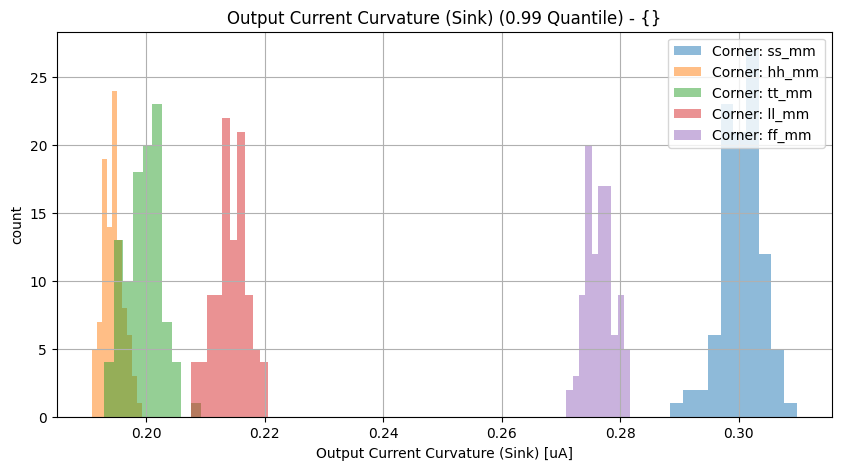
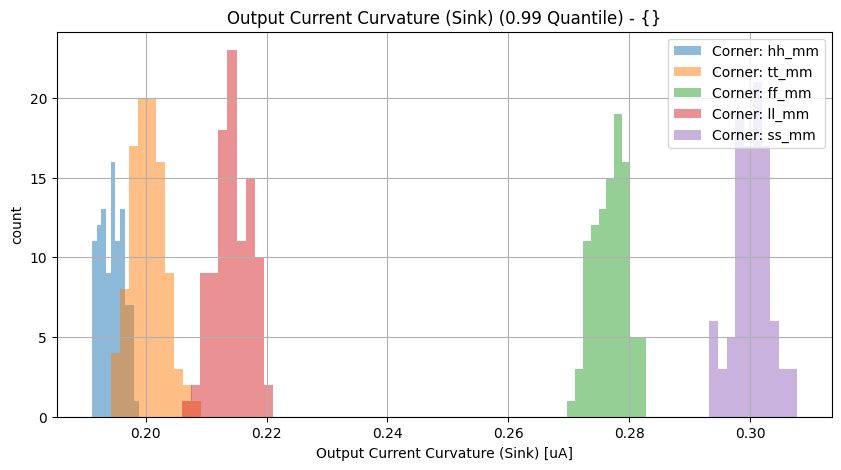
Jenkins update

diff --git a/vthref/vthref/Readme.md b/vthref/vthref/Readme.md
@@ -1,4 +1,4 @@
-06.08.2022, 15:44:52
+17.09.2022, 20:08:27
 
 # Vth Current Reference
 
@@ -30,8 +30,8 @@ LVS-state: Netlists match uniquely.<br>
 
 | Parameter | Min (Spec. / Sim.) |      | Max (Sim. / Spec.) | Unit | Checks (total/pass/fail/NaN) | Comment |
 | :-------- | -----------------: | :--: | :----------------- | :--- | :--------------------------- | ------- |
-| Output Current Curvature (Sink) | 0.0 / 0.191 | <svg height="20" width="150"><polyline points="3.0,3,3.0,17,147.0,17,147.0,3" style="fill:none;stroke:gray;stroke-width:1" /><polyline points="75.0,10.0,75.0,17" style="fill:none;stroke:gray;stroke-width:1" /><polyline points="30.4841136,10.0,47.612870400000006,10.0" style="stroke:green;stroke-width:2" /><circle cx="30.4841136" cy="10.0" r="3" style="fill:green;stroke:green;stroke-width:0" /><circle cx="47.612870400000006" cy="10.0" r="3" style="fill:green;stroke:green;stroke-width:0" /></svg> | 0.31 / 1.0 | uA | 500/100.0%/0.0%/0.0% |  |
-| Output Current Curvature (Source) | 0.0 / 0.193 | <svg height="20" width="150"><polyline points="3.0,3,3.0,17,147.0,17,147.0,3" style="fill:none;stroke:gray;stroke-width:1" /><polyline points="75.0,10.0,75.0,17" style="fill:none;stroke:gray;stroke-width:1" /><polyline points="30.7878096,10.0,47.211528,10.0" style="stroke:green;stroke-width:2" /><circle cx="30.7878096" cy="10.0" r="3" style="fill:green;stroke:green;stroke-width:0" /><circle cx="47.211528" cy="10.0" r="3" style="fill:green;stroke:green;stroke-width:0" /></svg> | 0.307 / 1.0 | uA | 500/100.0%/0.0%/0.0% |  |
+| Output Current Curvature (Sink) | 0.0 / 0.191 | <svg height="20" width="150"><polyline points="3.0,3,3.0,17,147.0,17,147.0,3" style="fill:none;stroke:gray;stroke-width:1" /><polyline points="75.0,10.0,75.0,17" style="fill:none;stroke:gray;stroke-width:1" /><polyline points="30.5239152,10.0,47.3101824,10.0" style="stroke:green;stroke-width:2" /><circle cx="30.5239152" cy="10.0" r="3" style="fill:green;stroke:green;stroke-width:0" /><circle cx="47.3101824" cy="10.0" r="3" style="fill:green;stroke:green;stroke-width:0" /></svg> | 0.308 / 1.0 | uA | 500/100.0%/0.0%/0.0% |  |
+| Output Current Curvature (Source) | 0.0 / 0.194 | <svg height="20" width="150"><polyline points="3.0,3,3.0,17,147.0,17,147.0,3" style="fill:none;stroke:gray;stroke-width:1" /><polyline points="75.0,10.0,75.0,17" style="fill:none;stroke:gray;stroke-width:1" /><polyline points="30.8981712,10.0,47.3664432,10.0" style="stroke:green;stroke-width:2" /><circle cx="30.8981712" cy="10.0" r="3" style="fill:green;stroke:green;stroke-width:0" /><circle cx="47.3664432" cy="10.0" r="3" style="fill:green;stroke:green;stroke-width:0" /></svg> | 0.308 / 1.0 | uA | 500/100.0%/0.0%/0.0% |  |
 
 <br>
 
@@ -48,8 +48,8 @@ LVS-state: Netlists match uniquely.<br>
 
 | Parameter | Min (Spec. / Sim.) |      | Max (Sim. / Spec.) | Unit | Checks (total/pass/fail/NaN) | Comment |
 | :-------- | -----------------: | :--: | :----------------- | :--- | :--------------------------- | ------- |
-| Output Current Curvature (Sink) | 0.0 / 0.193 | <svg height="20" width="150"><polyline points="3.0,3,3.0,17,147.0,17,147.0,3" style="fill:none;stroke:gray;stroke-width:1" /><polyline points="75.0,10.0,75.0,17" style="fill:none;stroke:gray;stroke-width:1" /><polyline points="30.7816608,10.0,45.9992496,10.0" style="stroke:green;stroke-width:2" /><circle cx="30.7816608" cy="10.0" r="3" style="fill:green;stroke:green;stroke-width:0" /><circle cx="45.9992496" cy="10.0" r="3" style="fill:green;stroke:green;stroke-width:0" /></svg> | 0.299 / 1.0 | uA | 500/100.0%/0.0%/0.0% |  |
-| Output Current Curvature (Source) | 0.0 / 0.196 | <svg height="20" width="150"><polyline points="3.0,3,3.0,17,147.0,17,147.0,3" style="fill:none;stroke:gray;stroke-width:1" /><polyline points="75.0,10.0,75.0,17" style="fill:none;stroke:gray;stroke-width:1" /><polyline points="31.216036799999998,10.0,48.5911776,10.0" style="stroke:green;stroke-width:2" /><circle cx="31.216036799999998" cy="10.0" r="3" style="fill:green;stroke:green;stroke-width:0" /><circle cx="48.5911776" cy="10.0" r="3" style="fill:green;stroke:green;stroke-width:0" /></svg> | 0.317 / 1.0 | uA | 500/100.0%/0.0%/0.0% |  |
+| Output Current Curvature (Sink) | 0.0 / 0.193 | <svg height="20" width="150"><polyline points="3.0,3,3.0,17,147.0,17,147.0,3" style="fill:none;stroke:gray;stroke-width:1" /><polyline points="75.0,10.0,75.0,17" style="fill:none;stroke:gray;stroke-width:1" /><polyline points="30.819777600000002,10.0,45.772464,10.0" style="stroke:green;stroke-width:2" /><circle cx="30.819777600000002" cy="10.0" r="3" style="fill:green;stroke:green;stroke-width:0" /><circle cx="45.772464" cy="10.0" r="3" style="fill:green;stroke:green;stroke-width:0" /></svg> | 0.297 / 1.0 | uA | 500/100.0%/0.0%/0.0% |  |
+| Output Current Curvature (Source) | 0.0 / 0.196 | <svg height="20" width="150"><polyline points="3.0,3,3.0,17,147.0,17,147.0,3" style="fill:none;stroke:gray;stroke-width:1" /><polyline points="75.0,10.0,75.0,17" style="fill:none;stroke:gray;stroke-width:1" /><polyline points="31.170936,10.0,47.9622432,10.0" style="stroke:green;stroke-width:2" /><circle cx="31.170936" cy="10.0" r="3" style="fill:green;stroke:green;stroke-width:0" /><circle cx="47.9622432" cy="10.0" r="3" style="fill:green;stroke:green;stroke-width:0" /></svg> | 0.312 / 1.0 | uA | 500/100.0%/0.0%/0.0% |  |
 
 <br>
 

diff --git a/vthref/vthref/specReport.md b/vthref/vthref/specReport.md
@@ -12,8 +12,8 @@
 
 | Parameter | Min (Spec. / Sim.) |      | Max (Sim. / Spec.) | Unit | Checks (total/pass/fail/NaN) | Comment |
 | :-------- | -----------------: | :--: | :----------------- | :--- | :--------------------------- | ------- |
-| Output Current Curvature (Sink) | 0.0 / 0.191 | <svg height="20" width="150"><polyline points="3.0,3,3.0,17,147.0,17,147.0,3" style="fill:none;stroke:gray;stroke-width:1" /><polyline points="75.0,10.0,75.0,17" style="fill:none;stroke:gray;stroke-width:1" /><polyline points="30.4841136,10.0,47.612870400000006,10.0" style="stroke:green;stroke-width:2" /><circle cx="30.4841136" cy="10.0" r="3" style="fill:green;stroke:green;stroke-width:0" /><circle cx="47.612870400000006" cy="10.0" r="3" style="fill:green;stroke:green;stroke-width:0" /></svg> | 0.31 / 1.0 | uA | 500/100.0%/0.0%/0.0% |  |
-| Output Current Curvature (Source) | 0.0 / 0.193 | <svg height="20" width="150"><polyline points="3.0,3,3.0,17,147.0,17,147.0,3" style="fill:none;stroke:gray;stroke-width:1" /><polyline points="75.0,10.0,75.0,17" style="fill:none;stroke:gray;stroke-width:1" /><polyline points="30.7878096,10.0,47.211528,10.0" style="stroke:green;stroke-width:2" /><circle cx="30.7878096" cy="10.0" r="3" style="fill:green;stroke:green;stroke-width:0" /><circle cx="47.211528" cy="10.0" r="3" style="fill:green;stroke:green;stroke-width:0" /></svg> | 0.307 / 1.0 | uA | 500/100.0%/0.0%/0.0% |  |
+| Output Current Curvature (Sink) | 0.0 / 0.191 | <svg height="20" width="150"><polyline points="3.0,3,3.0,17,147.0,17,147.0,3" style="fill:none;stroke:gray;stroke-width:1" /><polyline points="75.0,10.0,75.0,17" style="fill:none;stroke:gray;stroke-width:1" /><polyline points="30.5239152,10.0,47.3101824,10.0" style="stroke:green;stroke-width:2" /><circle cx="30.5239152" cy="10.0" r="3" style="fill:green;stroke:green;stroke-width:0" /><circle cx="47.3101824" cy="10.0" r="3" style="fill:green;stroke:green;stroke-width:0" /></svg> | 0.308 / 1.0 | uA | 500/100.0%/0.0%/0.0% |  |
+| Output Current Curvature (Source) | 0.0 / 0.194 | <svg height="20" width="150"><polyline points="3.0,3,3.0,17,147.0,17,147.0,3" style="fill:none;stroke:gray;stroke-width:1" /><polyline points="75.0,10.0,75.0,17" style="fill:none;stroke:gray;stroke-width:1" /><polyline points="30.8981712,10.0,47.3664432,10.0" style="stroke:green;stroke-width:2" /><circle cx="30.8981712" cy="10.0" r="3" style="fill:green;stroke:green;stroke-width:0" /><circle cx="47.3664432" cy="10.0" r="3" style="fill:green;stroke:green;stroke-width:0" /></svg> | 0.308 / 1.0 | uA | 500/100.0%/0.0%/0.0% |  |
 
 <br>
 
@@ -30,7 +30,7 @@
 
 | Parameter | Min (Spec. / Sim.) |      | Max (Sim. / Spec.) | Unit | Checks (total/pass/fail/NaN) | Comment |
 | :-------- | -----------------: | :--: | :----------------- | :--- | :--------------------------- | ------- |
-| Output Current Curvature (Sink) | 0.0 / 0.193 | <svg height="20" width="150"><polyline points="3.0,3,3.0,17,147.0,17,147.0,3" style="fill:none;stroke:gray;stroke-width:1" /><polyline points="75.0,10.0,75.0,17" style="fill:none;stroke:gray;stroke-width:1" /><polyline points="30.7816608,10.0,45.9992496,10.0" style="stroke:green;stroke-width:2" /><circle cx="30.7816608" cy="10.0" r="3" style="fill:green;stroke:green;stroke-width:0" /><circle cx="45.9992496" cy="10.0" r="3" style="fill:green;stroke:green;stroke-width:0" /></svg> | 0.299 / 1.0 | uA | 500/100.0%/0.0%/0.0% |  |
-| Output Current Curvature (Source) | 0.0 / 0.196 | <svg height="20" width="150"><polyline points="3.0,3,3.0,17,147.0,17,147.0,3" style="fill:none;stroke:gray;stroke-width:1" /><polyline points="75.0,10.0,75.0,17" style="fill:none;stroke:gray;stroke-width:1" /><polyline points="31.216036799999998,10.0,48.5911776,10.0" style="stroke:green;stroke-width:2" /><circle cx="31.216036799999998" cy="10.0" r="3" style="fill:green;stroke:green;stroke-width:0" /><circle cx="48.5911776" cy="10.0" r="3" style="fill:green;stroke:green;stroke-width:0" /></svg> | 0.317 / 1.0 | uA | 500/100.0%/0.0%/0.0% |  |
+| Output Current Curvature (Sink) | 0.0 / 0.193 | <svg height="20" width="150"><polyline points="3.0,3,3.0,17,147.0,17,147.0,3" style="fill:none;stroke:gray;stroke-width:1" /><polyline points="75.0,10.0,75.0,17" style="fill:none;stroke:gray;stroke-width:1" /><polyline points="30.819777600000002,10.0,45.772464,10.0" style="stroke:green;stroke-width:2" /><circle cx="30.819777600000002" cy="10.0" r="3" style="fill:green;stroke:green;stroke-width:0" /><circle cx="45.772464" cy="10.0" r="3" style="fill:green;stroke:green;stroke-width:0" /></svg> | 0.297 / 1.0 | uA | 500/100.0%/0.0%/0.0% |  |
+| Output Current Curvature (Source) | 0.0 / 0.196 | <svg height="20" width="150"><polyline points="3.0,3,3.0,17,147.0,17,147.0,3" style="fill:none;stroke:gray;stroke-width:1" /><polyline points="75.0,10.0,75.0,17" style="fill:none;stroke:gray;stroke-width:1" /><polyline points="31.170936,10.0,47.9622432,10.0" style="stroke:green;stroke-width:2" /><circle cx="31.170936" cy="10.0" r="3" style="fill:green;stroke:green;stroke-width:0" /><circle cx="47.9622432" cy="10.0" r="3" style="fill:green;stroke:green;stroke-width:0" /></svg> | 0.312 / 1.0 | uA | 500/100.0%/0.0%/0.0% |  |
 
 <br>

diff --git a/bmbg/bmbg/Readme.md b/bmbg/bmbg/Readme.md
@@ -1,4 +1,4 @@
-06.08.2022, 15:44:52
+17.09.2022, 20:08:27
 
 # Beta-Multiplier Bandgap
 
@@ -39,9 +39,8 @@ LVS-state: Netlists match uniquely.<br>
 | Reference Voltage Sensitivity at 20°C | -1200.0 / -1723.18 | <svg height="20" width="150"><polyline points="28.772590124453508,3,28.772590124453508,17,147.0,17,147.0,3" style="fill:none;stroke:gray;stroke-width:1" /><polyline points="87.88629506222676,10.0,87.88629506222676,17" style="fill:none;stroke:gray;stroke-width:1" /><polyline points="3.0,10.0,144.89299051033464,10.0" style="stroke:red;stroke-width:2" /><circle cx="3.0" cy="10.0" r="3" style="fill:red;stroke:red;stroke-width:0" /><circle cx="144.89299051033464" cy="10.0" r="3" style="fill:red;stroke:red;stroke-width:0" /></svg> | 1157.228 / 1200.0 | uV/°C | 2500/96.2%/3.8%/0.0% |  |
 | Max. Supply Current | -85.0 / -83.703 | <svg height="20" width="150"><polyline points="3.0,3,3.0,17,147.0,17,147.0,3" style="fill:none;stroke:gray;stroke-width:1" /><polyline points="75.0,10.0,75.0,17" style="fill:none;stroke:gray;stroke-width:1" /><polyline points="15.455040000000109,10.0,97.25087999999998,10.0" style="stroke:green;stroke-width:2" /><circle cx="15.455040000000109" cy="10.0" r="3" style="fill:green;stroke:green;stroke-width:0" /><circle cx="97.25087999999998" cy="10.0" r="3" style="fill:green;stroke:green;stroke-width:0" /></svg> | -75.182 / -70.0 | uA | 2403/100.0%/0.0%/0.0% |  |
 
-<details>
-  <summary>Show specification violation details</summary>
-  
+<br>
+
 > **FAIL:** Specification violation for parameter "Mean Reference Voltage":<br>
 > **FAIL:** group:hh_mm file:work/sim/bmbg/bmbg_tb.1_bmbg/batch_8/hh_mm/dc.csv Index:31 vsup:5.0 <br>
 > **FAIL:** group:ss_mm file:work/sim/bmbg/bmbg_tb.1_bmbg/batch_9/ss_mm/dc.csv Index:34 vsup:5.0 <br>
@@ -178,8 +177,6 @@ LVS-state: Netlists match uniquely.<br>
 > **FAIL:** group:ff_mm file:work/sim/bmbg/bmbg_tb.1_bmbg/batch_7/ff_mm/dc.csv Index:37 vsup:5.0 <br>
 > **FAIL:** group:hh_mm file:work/sim/bmbg/bmbg_tb.1_bmbg/batch_7/hh_mm/dc.csv Index:17 vsup:5.0 <br>
 > **FAIL:** group:hh_mm file:work/sim/bmbg/bmbg_tb.1_bmbg/batch_7/hh_mm/dc.csv Index:43 vsup:5.0 <br>
-</details>
-<br>
 
 ## Reference Voltage Curvature vs VDD <br>
 

diff --git a/bmbg/bmbgota/Readme.md b/bmbg/bmbgota/Readme.md
@@ -1,4 +1,4 @@
-06.08.2022, 15:44:52
+17.09.2022, 20:08:27
 
 # Beta-Multiplier Bandgap OTA
 

diff --git a/riosc/riosc/Readme.md b/riosc/riosc/Readme.md
@@ -1,4 +1,4 @@
-06.08.2022, 15:44:52
+17.09.2022, 20:08:27
 
 # Ring Oscillator
 

diff --git a/ldo/ldo/Readme.md b/ldo/ldo/Readme.md
@@ -1,4 +1,4 @@
-06.08.2022, 15:44:52
+17.09.2022, 20:08:26
 
 # 1.8 V LDO
 

diff --git a/ldo/ldoota/Readme.md b/ldo/ldoota/Readme.md
@@ -1,4 +1,4 @@
-06.08.2022, 15:44:52
+17.09.2022, 20:08:26
 
 # LDO OP
 
